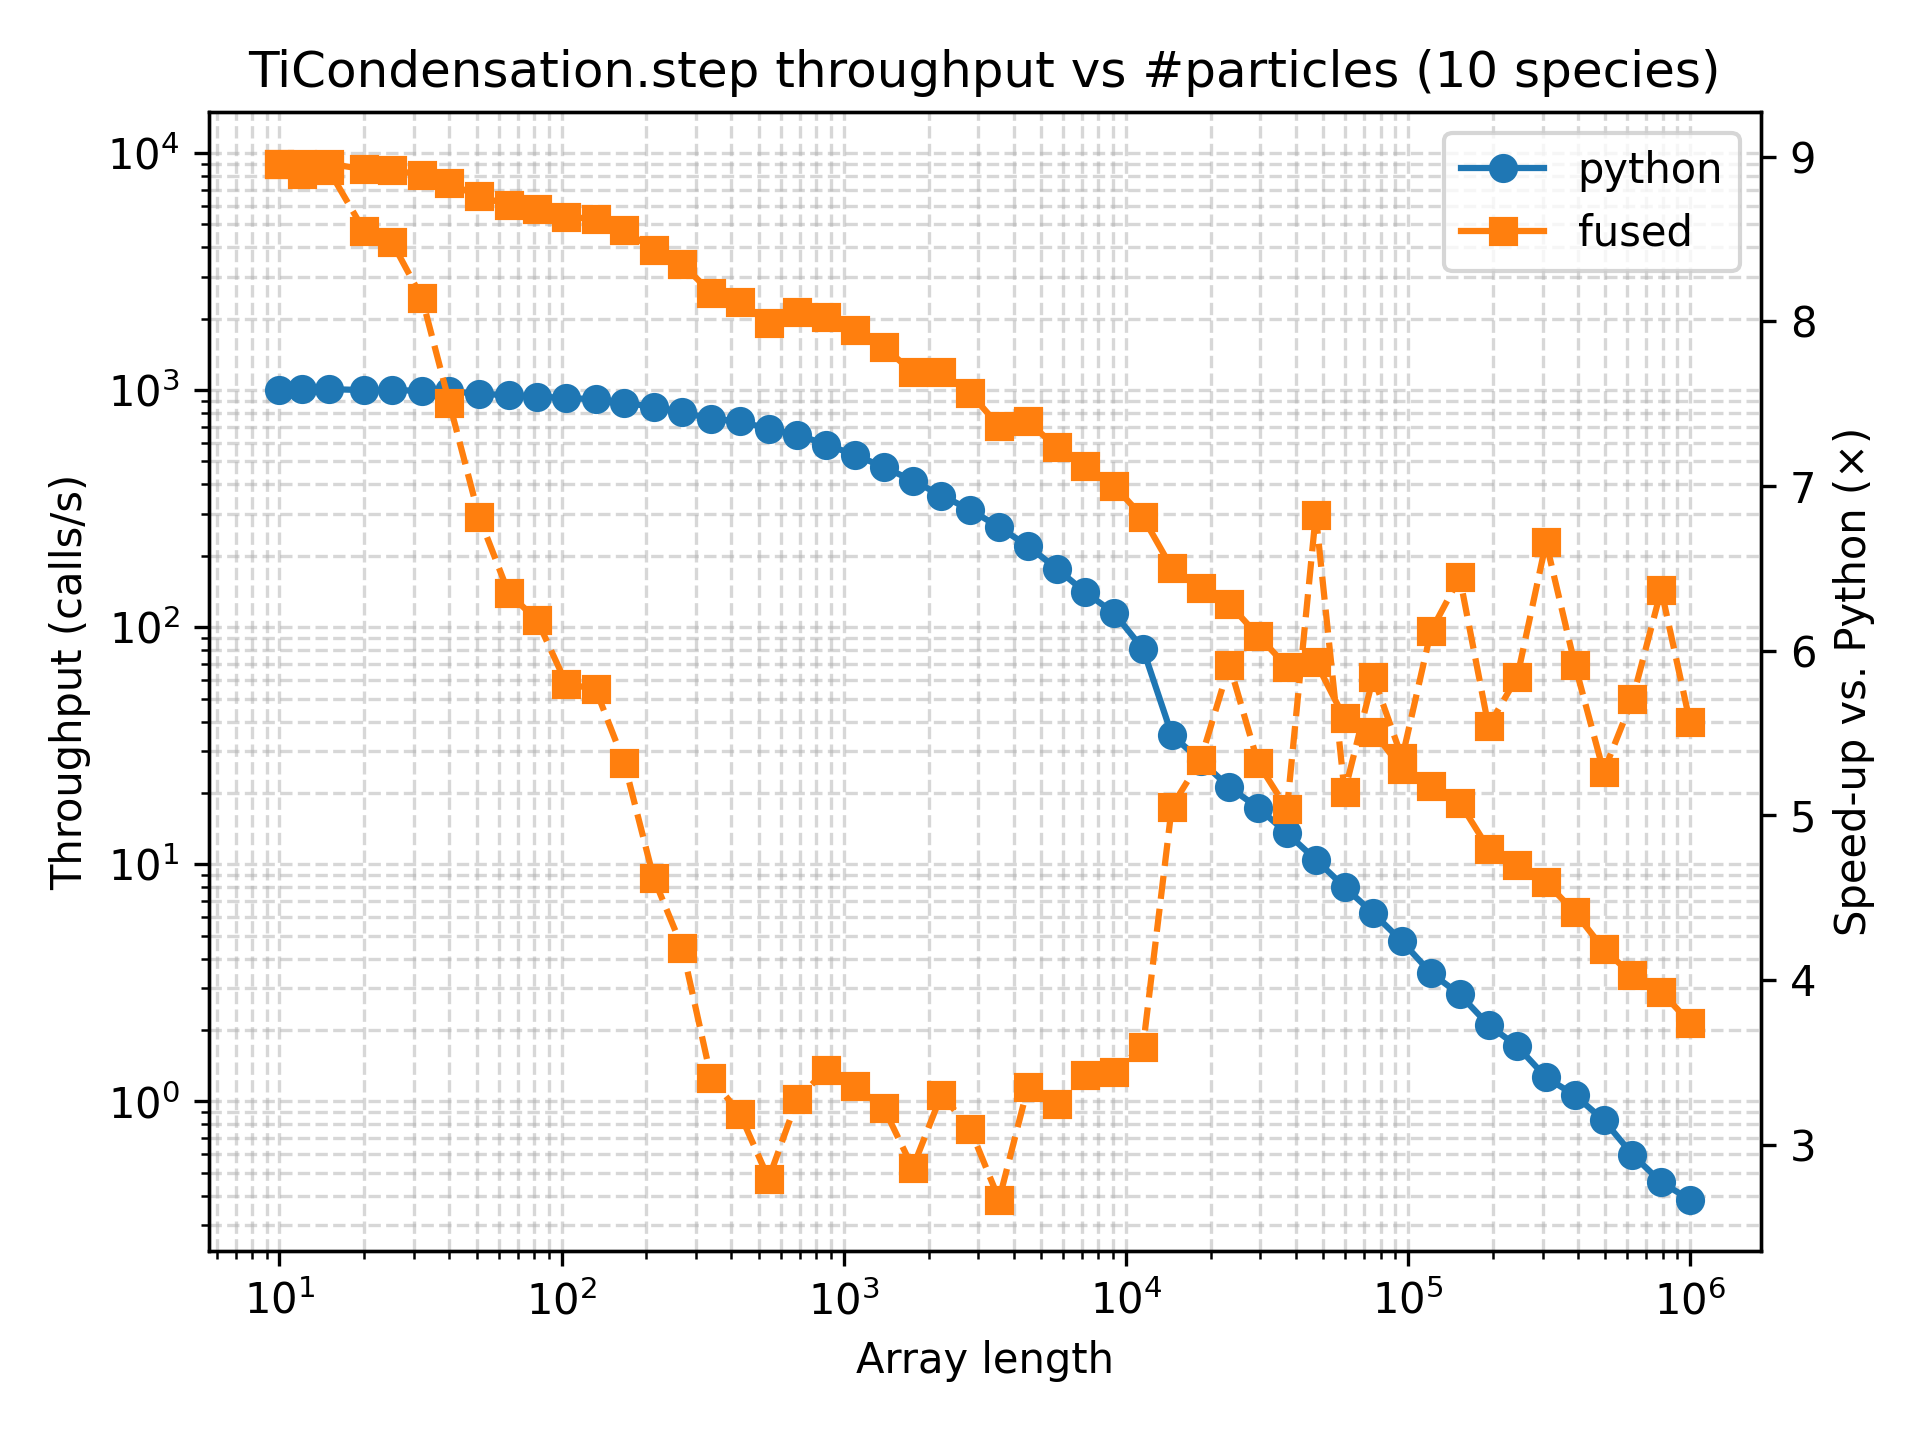
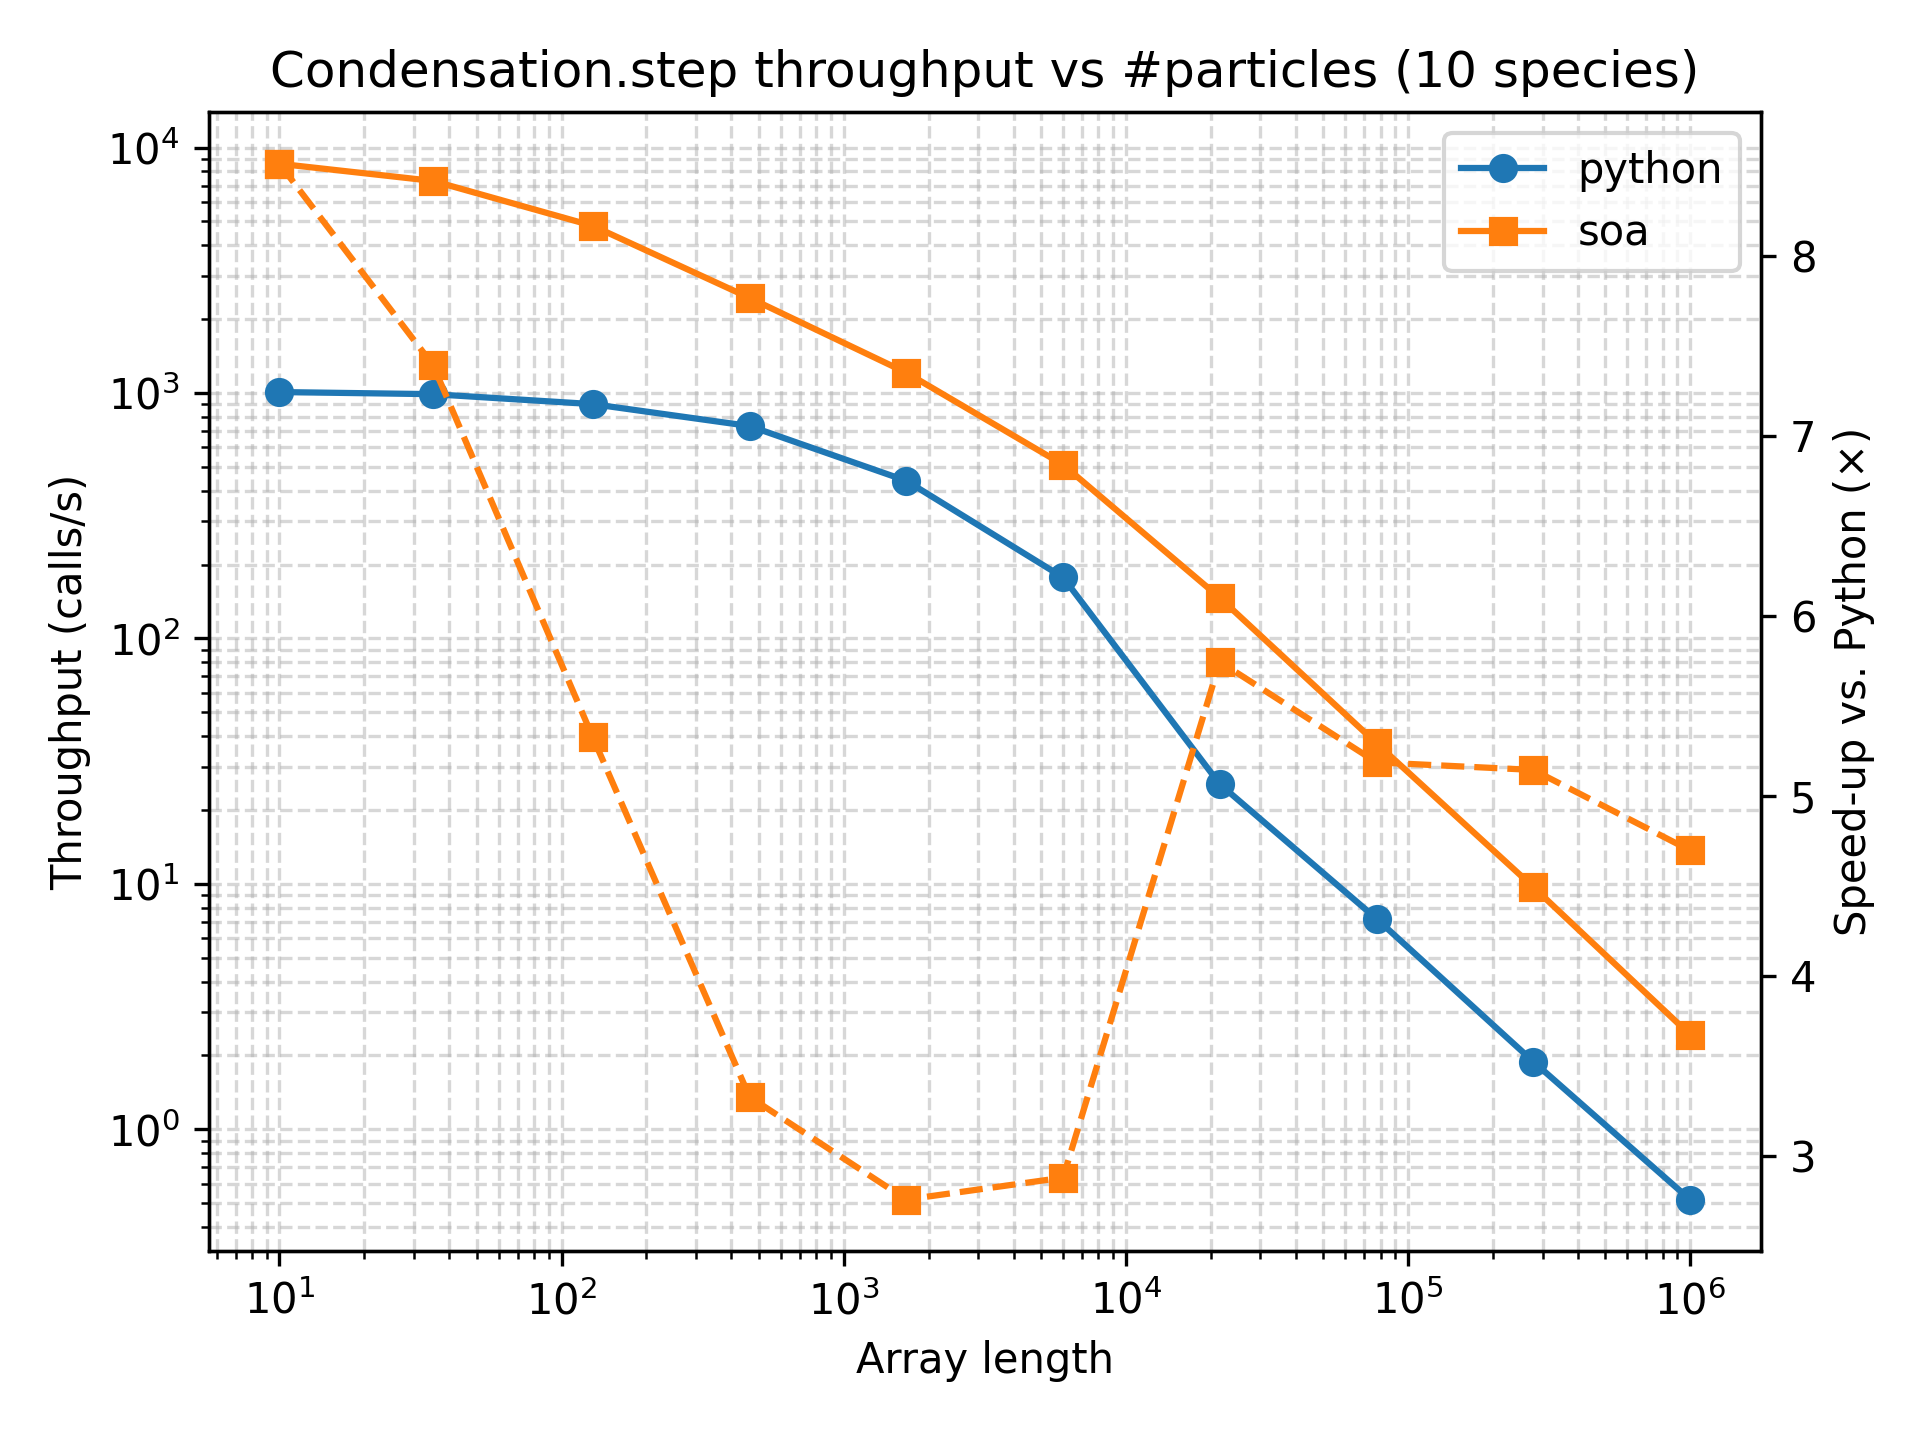
test file

diff --git a/particula/backend/taichi/aerosol/ti_particle_resolved_var.py b/particula/backend/taichi/aerosol/ti_particle_resolved_var.py
@@ -133,86 +133,160 @@ class TiAerosolParticleResolved_soa:
         """
         One explicit-Euler step for *all* variants.
         """
+        temperature = self.env.temperature
+        pressure = self.env.pressure
         # ---- particle-level loop -----------------------------------
-        for v in ti.static(range(self.variant_count)):
-            for p in range(self.particle_count):
-                r_p = particle_properties.fget_particle_radius_via_masses(
-                    particle_index = p,
-                    species_masses = self.particle_field[v].species_masses,
-                    density        = self.species[v].density,
+        for variant_index in ti.static(range(self.variant_count)):
+            for particle_index in range(self.particle_count):
+                radius = particle_properties.fget_particle_radius_via_masses(
+                    particle_index=particle_index,
+                    species_masses=self.particle_field[
+                        variant_index
+                    ].species_masses,
+                    density=self.species[variant_index].density,
                 )
-                self.radius[v][p] = r_p
+                self.radius[variant_index][particle_index] = radius
 
-                sigma_eff, rho_eff = (
+                surface_tension, density = (
                     particle_properties.fget_mass_weighted_density_and_surface_tension(
-                        particle_index = p,
-                        species_masses = self.particle_field[v].species_masses,
-                        density        = self.species[v].density,
-                        surface_tension= self.species[v].surface_tension,
+                        particle_index=particle_index,
+                        species_masses=self.particle_field[
+                            variant_index
+                        ].species_masses,
+                        density=self.species[variant_index].density,
+                        surface_tension=self.species[
+                            variant_index
+                        ].surface_tension,
                     )
                 )
+                total_particle_mass = get_total_mass(
+                    particle_index=particle_index,
+                    species_count=self.species_count,
+                    particle_masses=self.particle_field[
+                        variant_index
+                    ].species_masses,
+                )
 
-                for s in range(self.species_count):
-                    M_i = self.species[v].molar_mass[s]
-                    T   = self.env.temperature
-                    P   = self.env.pressure
+                for species_index in range(self.species_count):
+                    molar_mass_s = self.species[variant_index].molar_mass[species_index]
 
-                    k1 = condensation.fget_first_order_mass_transport_via_system_state(
-                        particle_radius      = r_p,
-                        molar_mass           = M_i,
-                        mass_accommodation   = self.env.mass_accommodation,
-                        temperature          = T,
-                        pressure             = P,
-                        dynamic_viscosity    = self.env.dynamic_viscosity,
-                        diffusion_coefficient= self.env.diffusion_coefficient,
+                    mass_rate_s = condensation.fget_first_order_mass_transport_via_system_state(
+                        particle_radius=radius,
+                        molar_mass=molar_mass_s,
+                        mass_accommodation=self.env.mass_accommodation,
+                        temperature=temperature,
+                        pressure=pressure,
+                        dynamic_viscosity=self.env.dynamic_viscosity,
+                        diffusion_coefficient=self.env.diffusion_coefficient,
                     )
 
                     kelvin_radius = particle_properties.fget_kelvin_radius(
-                        sigma_eff, rho_eff, M_i, T
+                        surface_tension=surface_tension,
+                        density=density,
+                        molar_mass=molar_mass_s,
+                        temperature=temperature,
                     )
                     kelvin_term = particle_properties.fget_kelvin_term(
-                        r_p, kelvin_radius
+                        radius_particle=radius, kelvin_radius=kelvin_radius
                     )
 
-                    p_g = gas_properties.fget_partial_pressure(
-                        self.species[v].vapor_concentration[s], M_i, T
-                    )
-                    delta_p = particle_properties.fget_partial_pressure_delta(
-                        p_g, p_g, kelvin_term
-                    )
-
-                    self.particle_field[v].mass_transport_rate[p, s] = (
-                        condensation.fget_mass_transfer_rate(
-                            pressure_delta         = delta_p,
-                            first_order_mass_transport = k1,
-                            temperature            = T,
-                            molar_mass             = M_i,
+                    partial_pressure_gas = (
+                        gas_properties.fget_partial_pressure(
+                            concentration=self.species[
+                                variant_index
+                            ].vapor_concentration[species_index],
+                            molar_mass=molar_mass_s,
+                            temperature=temperature,
                         )
                     )
 
+                    particle_actvity = (
+                        particle_properties.fget_ideal_activity_mass(
+                            mass_single=self.particle_field[
+                                variant_index
+                            ].species_masses[particle_index, species_index],
+                            total_mass=total_particle_mass,
+                        )
+                    )
+                    partial_pressure_particle = (
+                        particle_properties.fget_surface_partial_pressure(
+                            pure_vapor_pressure=self.species[
+                                variant_index
+                            ].pure_vapor_pressure[species_index],
+                            activity=particle_actvity,
+                        )
+                    )
+                    delta_p = particle_properties.fget_partial_pressure_delta(
+                        partial_pressure_gas=partial_pressure_gas,
+                        partial_pressure_particle=partial_pressure_particle,
+                        kelvin_term=kelvin_term,
+                    )
+
+                    self.particle_field[variant_index].mass_transport_rate[
+                        particle_index, species_index
+                    ] = condensation.fget_mass_transfer_rate(
+                        pressure_delta=delta_p,
+                        first_order_mass_transport=mass_rate_s,
+                        temperature=temperature,
+                        molar_mass=molar_mass_s,
+                    )
+
         # ---- species-level updates --------------------------------
-        for v in ti.static(range(self.variant_count)):
+        for variant_index in ti.static(range(self.variant_count)):
             dynamics.update_scaling_factor(
-                mass_transport_rate = self.particle_field[v].mass_transport_rate,
-                gas_mass            = self.species[v].gas_mass,
-                total_requested_mass= self.total_requested_mass[v],
-                scaling_factor      = self.scaling_factor[v],
-                time_step           = self.env.time_step,
-                simulation_volume   = self.env.simulation_volume,
+                mass_transport_rate=self.particle_field[
+                    variant_index
+                ].mass_transport_rate,
+                gas_mass=self.species[variant_index].gas_mass,
+                total_requested_mass=self.total_requested_mass[variant_index],
+                scaling_factor=self.scaling_factor[variant_index],
+                time_step=self.env.time_step,
+                simulation_volume=self.env.simulation_volume,
             )
             condensation.update_transferable_mass(
-                time_step           = self.env.time_step,
-                mass_transport_rate = self.particle_field[v].mass_transport_rate,
-                scaling_factor      = self.scaling_factor[v],
-                transferable_mass   = self.particle_field[v].transferable_mass,
+                time_step=self.env.time_step,
+                mass_transport_rate=self.particle_field[
+                    variant_index
+                ].mass_transport_rate,
+                scaling_factor=self.scaling_factor[variant_index],
+                transferable_mass=self.particle_field[
+                    variant_index
+                ].transferable_mass,
             )
             condensation.update_gas_mass(
-                gas_mass            = self.species[v].gas_mass,
-                species_masses      = self.particle_field[v].species_masses,
-                transferable_mass   = self.particle_field[v].transferable_mass,
+                gas_mass=self.species[variant_index].gas_mass,
+                species_masses=self.particle_field[
+                    variant_index
+                ].species_masses,
+                transferable_mass=self.particle_field[
+                    variant_index
+                ].transferable_mass,
             )
             condensation.update_species_masses(
-                species_masses      = self.particle_field[v].species_masses,
-                particle_concentration = self.particle_concentration[v],
-                transferable_mass   = self.particle_field[v].transferable_mass,
+                species_masses=self.particle_field[
+                    variant_index
+                ].species_masses,
+                particle_concentration=self.particle_concentration[
+                    variant_index
+                ],
+                transferable_mass=self.particle_field[
+                    variant_index
+                ].transferable_mass,
             )
+
+
+@ti.func
+def get_total_mass(
+    particle_index: int,
+    species_count: int,
+    particle_masses: ti.template(),
+) -> float:
+    """
+    Get the total mass of a particle by summing up the species masses.
+    """
+    total_mass = ti.cast(0.0, float)
+    for species_index in range(species_count):
+        total_mass += particle_masses[particle_index, species_index]
+    if total_mass < 0.0:
+        total_mass = ti.cast(0.0, float)
+    return total_mass

diff --git a/particula/backend/taichi/aerosol/ti_particle_resolved_field.py b/particula/backend/taichi/aerosol/ti_particle_resolved_field.py
@@ -7,7 +7,15 @@ import numpy as np
 
 
 class ParticleResolvedFieldBuilder:
-    """Creates the (variant × particle × species) state field."""
+    """
+    Creates the per-particle, per-species SoA field and offers handy load
+    helpers. The field is structured as a list of `P2S` structs, where each
+    struct contains the mass matrix for a specific variant. Each `P2S` struct
+    has the following fields:
+    - `species_masses`: per-particle, per-species mass matrix
+    - `mass_transport_rate`: auxiliary field for mass transport rates
+    - `transferable_mass`: auxiliary field for transferable mass
+    """
 
     def __init__(
         self, variant_count: int, particle_count: int, species_count: int

diff --git a/particula/backend/taichi/particles/properties/ti_kelvin_effect_module.py b/particula/backend/taichi/particles/properties/ti_kelvin_effect_module.py
@@ -24,8 +24,8 @@ def fget_kelvin_radius(
 
 
 @ti.func
-def fget_kelvin_term(r_p: float, r_k: float) -> float:
-    expo = r_k / r_p
+def fget_kelvin_term(radius_particle: float, kelvin_radius: float) -> float:
+    expo = kelvin_radius / radius_particle
     max_exp = ti.static(_EXP_MAX)
     expo = ti.min(expo, max_exp)  # overflow protection
     return ti.exp(expo)

diff --git a/particula/backend/taichi/dynamics/condensation/ti_update_condensation_masses.py b/particula/backend/taichi/dynamics/condensation/ti_update_condensation_masses.py
@@ -44,7 +44,7 @@ def update_gas_mass(
     the mass transferred to particles.
     """
     for j in ti.ndrange(gas_mass.shape[0]):
-        species_mass = 0.0
+        species_mass = ti.cast(0.0, float)
         for i in ti.ndrange(species_masses.shape[0]):
             species_mass += transferable_mass[i, j]
         gas_mass[j] -= species_mass

diff --git a/particula/backend/taichi/aerosol/test/ti_particle_resolved_cond_value_test.py b/particula/backend/taichi/aerosol/test/ti_particle_resolved_cond_value_test.py
@@ -1,0 +1,9 @@
+"""
+Test that the particle resolved condition value is computed correctly.
+By comparing to the Python implementation.
+"""
+
+import taichi as ti
+import unittest
+
+
